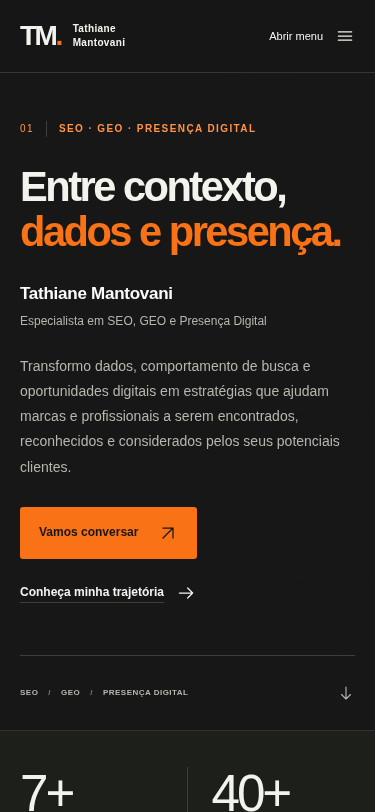
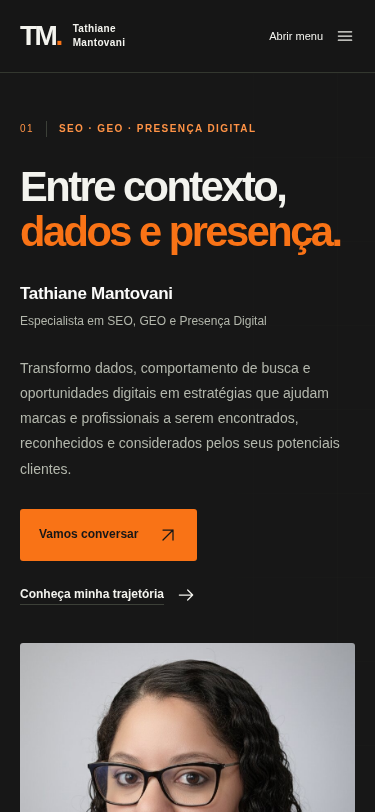
Inclui originais e aprova depoimentos para publicação

diff --git a/src/data/site.ts b/src/data/site.ts
@@ -203,18 +203,18 @@ export const site: SiteContent = {
     whatsappFloatingLabel: 'Conversar com Tathiane pelo WhatsApp',
   },
   images: {
-    // Reservas de layout: conferir dimensões e composição quando os originais chegarem.
+    // Dimensões dos arquivos originais enviados pela titular.
     portrait: {
       src: '/images/foto-tathiane.jpg',
       alt: 'Retrato profissional de Tathiane Mantovani',
-      width: 720,
-      height: 900,
+      width: 867,
+      height: 1024,
     },
     illustration: {
       src: '/images/ilustracao-livro-pena.png',
       alt: '',
-      width: 640,
-      height: 640,
+      width: 981,
+      height: 756,
     },
   },
   hero: {
@@ -560,55 +560,55 @@ export const site: SiteContent = {
       title: 'Cada projeto também é uma troca.',
       description: 'Clareza, compromisso e colaboração orientam minha forma de trabalhar com pessoas e negócios.',
     },
-    // Nenhuma recomendação é pública até a titular revisar texto e autorizar o uso do nome.
+    // Os oito trechos e nomes foram revisados pela titular, que autorizou sua exibição pública.
     items: [
       {
         name: 'Rafaela Campos',
         relationship: 'Trabalhou na mesma equipe',
         quote: 'comprometida, de poucas palavras e muita ação com qualidade',
-        status: 'pendenteRevisao',
+        status: 'aprovado',
       },
       {
         name: 'Calila Meira',
         relationship: 'Foi mentora da Tathiane',
         quote: 'Ótima profissional e aluna! Muito correta em tudo o que faz e proativa.',
-        status: 'pendenteRevisao',
+        status: 'aprovado',
       },
       {
         name: 'Aline Saes',
         relationship: 'Trabalhou na mesma equipe',
         quote: 'A Tathiane é uma redatora incrível, sabe receber bem todos os feedbacks e adaptar os conteúdos quando necessário.',
-        status: 'pendenteRevisao',
+        status: 'aprovado',
       },
       {
         name: 'Duda Razera',
         relationship: 'Foi cliente da Tathiane',
         quote: 'Os conteúdos da Tathi sempre tem muita qualidade e ela é fiel aos prazos e orientações enviadas.',
-        status: 'pendenteRevisao',
+        status: 'aprovado',
       },
       {
         name: 'Larissa Oliveira',
         relationship: 'Foi cliente da Tathiane',
         quote: 'Tathiane sempre entrega um trabalho de redação impecável e de qualidade. Recomendo demais!',
-        status: 'pendenteRevisao',
+        status: 'aprovado',
       },
       {
         name: 'Karine',
         relationship: 'Trabalhou na mesma equipe',
         quote: 'Como analista de SEO, é sempre muito assertiva nos briefings e direcionamentos de conteúdo',
-        status: 'pendenteRevisao',
+        status: 'aprovado',
       },
       {
         name: 'Gabriela Zendron da Cunha',
         relationship: 'Trabalhou na mesma equipe',
         quote: 'sempre se mostrou uma profissional extremamente proativa, analítica e estratégica',
-        status: 'pendenteRevisao',
+        status: 'aprovado',
       },
       {
         name: 'Francielle Carvalho',
         relationship: 'Trabalharam em equipes diferentes',
         quote: 'uma capacidade analítica impressionante, raciocínio lógico apurado, olhar crítico e muita agilidade na resolução de problemas',
-        status: 'pendenteRevisao',
+        status: 'aprovado',
       },
     ],
   },
@@ -645,12 +645,9 @@ export const site: SiteContent = {
   },
   editorial: {
     pendingReview: [
-      'Adicionar a fotografia profissional e a ilustração originais; conferir dimensões e enquadramento antes da publicação.',
       'Confirmar se o indicador de livros técnicos publicados deve ser 9+ ou 9.',
       'Validar o indicador 12+ de especializações acadêmicas e sua composição entre cursos concluídos e em andamento.',
       'Revisar nomes, instituições, períodos e status dos cursos selecionados antes da publicação.',
-      'Revisar a exatidão dos oito trechos de recomendações e confirmar autorização editorial para uso dos nomes; somente então alterar o status para aprovado.',
-      'Confirmar o sobrenome de Karine se for necessário; manter apenas o nome fornecido até a confirmação.',
     ],
   },
 };

diff --git a/src/styles/global.css b/src/styles/global.css
@@ -190,8 +190,11 @@ main:focus { outline: none; }
 .process-flow .section-note { margin-top: 34px; max-width: 90ch; }
 .testimonial-grid { grid-template-columns: repeat(2, minmax(0, 1fr)); }
 .testimonial-card blockquote { margin: 0 0 25px; font-size: 18px; line-height: 1.6; }
-.testimonial-attribution { font-size: 13px; font-weight: 600; line-height: 1.6; }
-.testimonial-attribution p { font-size: 12px; }
+.testimonial-card { display: flex; flex-direction: column; }
+.testimonial-card blockquote p { color: var(--text); font-size: 18px; line-height: 1.7; font-weight: 450; }
+.testimonial-attribution { display: flex; flex-direction: column; gap: 5px; margin-top: auto; font-size: 13px; font-weight: 600; line-height: 1.6; }
+.testimonial-attribution span { color: var(--muted); font-size: 12px; font-weight: 400; }
+.testimonial-attribution small { color: var(--muted); font-size: 10px; font-weight: 400; padding-top: 14px; margin-top: 9px; border-top: 1px solid var(--line); }
 
 .contact-section { padding-block: 116px; background: #20221d; border-bottom: 1px solid #393d33; }
 .contact-grid { display: grid; grid-template-columns: 1.35fr .65fr; gap: 100px; align-items: end; }

diff --git a/README.md b/README.md
@@ -24,13 +24,13 @@ npm run preview -- --host 127.0.0.1 --port 4322
 
 ## Edição do conteúdo
 
-Edite `src/data/site.ts` para atualizar textos, links, números, formação, serviços, segmentos, cases anônimos e depoimentos sem alterar os componentes. Preserve os status de formação e de revisão editorial. Os depoimentos pendentes ficam nos dados e são omitidos da página pública até confirmação.
+Edite `src/data/site.ts` para atualizar textos, links, números, formação, serviços, segmentos, cases anônimos e depoimentos sem alterar os componentes. Preserve os status de formação e de revisão editorial. Novos depoimentos ainda não confirmados devem ficar com `status: 'pendenteRevisao'` para serem omitidos da página.
 
-A titular escolheu manter os oito depoimentos pendentes. Por isso, a página exibe dez seções no momento; a seção de depoimentos ocupa sua posição prevista quando houver registros com `status: 'aprovado'`. Altere esse status somente após a revisão editorial.
+A titular conferiu e aprovou os oito depoimentos fornecidos. Todos estão com `status: 'aprovado'` e visíveis; a página reúne as onze seções previstas. Alterar esse status inclui ou oculta o registro na página gerada e na prévia local, sem iniciar uma publicação por si só.
 
-As imagens devem ser adicionadas em `public/images/` com os nomes exatos descritos no [guia de imagens](public/images/README.md). Confira também as dimensões e o recorte declarados nos dados. A fotografia e a ilustração originais estão ausentes e não foram substituídas; o hero depende desses arquivos para sua finalização.
+As imagens originais fornecidas pela titular estão incluídas em `public/images/`, conforme o [guia de imagens](public/images/README.md): fotografia de 867 × 1024 px e ilustração de 981 × 756 px. Os caminhos, textos alternativos e dimensões ficam em `src/data/site.ts`.
 
-Após adicionar as imagens, confira `width` e `height` nos dados, revise o enquadramento e execute um novo build. Elas são incluídas somente quando os arquivos existem.
+Ao substituir alguma imagem, atualize `width` e `height` nos dados, revise o enquadramento e execute um novo build. Preserve a composição da fotografia e a transparência da ilustração. As imagens são incluídas somente quando os arquivos existem.
 
 ## Validação executada
 
@@ -38,25 +38,24 @@ Após adicionar as imagens, confira `width` e `height` nos dados, revise o enqua
 - Desenvolvimento e saída estática responderam HTTP 200 com o conteúdo e os links de contato esperados.
 - Chromium em 320, 375, 768, 1024, 1440 e 1920 px: sem rolagem horizontal, erros de JavaScript, âncoras ausentes ou imagens quebradas.
 - Menu por teclado, retorno do foco com Escape e movimento reduzido verificados; auditoria axe sem violações nos critérios WCAG AA selecionados. O contraste do hero foi conferido manualmente por causa da grade decorativa.
-- Os oito depoimentos pendentes foram confirmados ausentes no HTML público.
-- O bloqueio por imagens do workflow foi testado localmente; o workflow ainda não executou no GitHub.
+- Os oito depoimentos aprovados pela titular estão configurados para aparecer na seção de depoimentos.
+- A presença das duas imagens originais atende à verificação obrigatória de assets do workflow. A publicação pelo workflow ainda não foi confirmada no GitHub.
 
-## Pendências editoriais
+## Revisões editoriais opcionais
 
-- Confirmar o indicador de livros: `9+` ou `9`.
-- Confirmar como apresentar `12+` especializações sem sugerir que todas foram concluídas.
-- Validar a seleção de cursos e instituições; Jornalismo e as especializações indicadas como em andamento devem continuar com esse status explícito.
-- Revisar com a titular os nomes, vínculos e trechos dos depoimentos e confirmar seu uso público. Manter o texto fiel ao trecho fornecido, sem completar sobrenomes ou conteúdo oculto e sem publicar screenshots.
-- Adicionar a fotografia e a ilustração originais e conferir o hero nos tamanhos de tela previstos.
+- Se necessário, ajustar o indicador de livros entre `9+` e `9`.
+- Refinar a apresentação de `12+` especializações; o rótulo atual distingue cursos concluídos e em andamento.
+- Atualizar a seleção de cursos e instituições conforme desejado. Jornalismo e as especializações indicadas como em andamento devem continuar com esse status até sua conclusão.
+
+Essas revisões não bloqueiam a publicação. Os oito depoimentos já foram aprovados; seus trechos permanecem fiéis ao conteúdo fornecido, sem completar sobrenomes ou conteúdo oculto e sem screenshots.
 
 ## Publicar no GitHub Pages
 
-Nenhuma configuração remota, commit, push ou publicação é realizada pelo desenvolvimento local.
+O branch `main` está preparado para o fluxo de publicação. A publicação ainda não foi confirmada; o GitHub Pages precisa estar configurado para usar GitHub Actions.
 
-1. Revise o conteúdo e adicione as duas imagens originais. O workflow falha antes do build e do deploy se algum desses arquivos estiver ausente ou vazio.
-2. Salve e envie os arquivos revisados para o repositório `tathianemantovani/tathianemantovani.github.io`. O branch remoto `main` ainda precisa ser criado; siga o fluxo de revisão autorizado, preservando o trabalho existente, sem reset ou push forçado.
-3. No GitHub, abra **Settings → Pages → Build and deployment → Source** e selecione **GitHub Actions**. Essa configuração é manual; o workflow não habilita Pages automaticamente.
-4. Um push em `main` inicia `.github/workflows/deploy.yml`. Também é possível usar **Actions → Publicar no GitHub Pages → Run workflow**, selecionando `main`.
-5. Confira o resultado dos jobs e a URL mostrada pelo deployment. Só então considere a publicação confirmada.
+1. No repositório `tathianemantovani/tathianemantovani.github.io`, abra **Settings → General → Default branch** e selecione `main` como branch padrão.
+2. Abra **Settings → Pages → Build and deployment → Source** e selecione **GitHub Actions**. Essa configuração é manual; o workflow não habilita Pages automaticamente.
+3. Abra **Actions → Publicar no GitHub Pages → Run workflow**, selecione o branch `main` e execute. Esse comando pode repetir a publicação caso um primeiro push tenha ocorrido antes da configuração de Pages.
+4. Aguarde os jobs **Verificar e construir** e **Publicar** ficarem verdes. Abra a URL mostrada pelo deployment: <https://tathianemantovani.github.io/>. Só então considere a publicação confirmada.
 
-O workflow usa actions oficiais fixadas por SHA, Node.js 24, `npm ci`, verificação de tipos e build estático. O job de build só lê o código; o job de deploy recebe `pages: write` e `id-token: write`. Os dados editoriais pendentes não bloqueiam a publicação das demais seções enquanto permanecerem omitidos. O Astro deve usar `site: 'https://tathianemantovani.github.io'`, sem `base` de subdiretório.
+Novos pushes em `main` iniciam `.github/workflows/deploy.yml` automaticamente. O workflow usa actions oficiais fixadas por SHA, Node.js 24, `npm ci`, verificação de tipos e build estático. O job de build só lê o código; o job de deploy recebe `pages: write` e `id-token: write`. As duas imagens originais já estão incluídas; o workflow verifica que continuam presentes e não vazias. O Astro usa `site: 'https://tathianemantovani.github.io'`, sem `base` de subdiretório.

diff --git a/docs/revisao/README.md b/docs/revisao/README.md
@@ -1,17 +1,18 @@
 # Revisão do site
 
-Esta branch disponibiliza o projeto para revisão e download. Um push em `revisao-site` não aciona o workflow de publicação, configurado para `main`.
+Esta pasta disponibiliza capturas e instruções para revisão. O projeto está preparado em `main` para publicação; um push em `revisao-site` não aciona o workflow, configurado para `main`.
 
 ## Capturas
 
 - [Desktop](desktop.png)
 - [Celular](mobile.png)
+- [Depoimentos aprovados](depoimentos.png)
 
-As capturas mostram a versão atual sem a fotografia e a ilustração originais. Os depoimentos permanecem pendentes e não aparecem na página.
+As capturas mostram a versão com a fotografia e a ilustração originais fornecidas pela titular. Os oito depoimentos foram conferidos e aprovados pela titular, estão visíveis e completam as onze seções previstas.
 
 ## Baixar e visualizar
 
-Na página desta branch no GitHub, use **Code → Download ZIP**. Extraia o arquivo e abra um terminal na pasta que contém `package.json`. Com Node.js 24 LTS instalado, execute:
+Na página do repositório no GitHub, selecione `main` e use **Code → Download ZIP**. Extraia o arquivo e abra um terminal na pasta que contém `package.json`. Com Node.js 24 LTS instalado, execute:
 
 ```sh
 npm ci
@@ -22,8 +23,17 @@ Abra no navegador do mesmo computador o endereço exibido pelo terminal. Esses c
 
 ## Editar e concluir
 
-O conteúdo está em `src/data/site.ts`. A frase visível do início vem de `hero.headingLines`. Os depoimentos ficam em `testimonials.items`; `pendenteRevisao` oculta e `aprovado` inclui o registro na página após a confirmação editorial.
+O conteúdo está em `src/data/site.ts`. A frase visível do início vem de `hero.headingLines`. Os depoimentos ficam em `testimonials.items`; `pendenteRevisao` oculta e `aprovado` inclui o registro na página. Os oito registros atuais já foram aprovados. Alterar o status atualiza a prévia e os próximos builds, sem iniciar um deploy por si só.
 
-Inclua os originais em `public/images/foto-tathiane.jpg` e `public/images/ilustracao-livro-pena.png`, confira suas dimensões nos dados e revise o enquadramento. Também permanecem pendentes a revisão dos indicadores 9+/12+, a seleção da formação e a autorização dos depoimentos.
+Os originais já estão incluídos em `public/images/foto-tathiane.jpg` (867 × 1024 px) e `public/images/ilustracao-livro-pena.png` (981 × 756 px). Ao substituir as imagens, atualize suas dimensões nos dados e revise o enquadramento. Como revisão opcional, é possível ajustar `9+` ou `9` livros, refinar a qualificação de `12+` especializações e atualizar a seleção da formação. Mantenha explícitos os cursos em andamento.
+
+## Publicar para visualizar online
+
+A publicação ainda não foi confirmada. O branch `main` está preparado e os originais atendem à verificação de imagens do workflow. No GitHub:
+
+1. Em **Settings → General → Default branch**, selecione `main`.
+2. Em **Settings → Pages → Build and deployment → Source**, selecione **GitHub Actions**.
+3. Em **Actions → Publicar no GitHub Pages → Run workflow**, selecione `main` e execute.
+4. Aguarde os jobs ficarem verdes e abra a URL mostrada pelo deployment, esperada em <https://tathianemantovani.github.io/>.
 
 Veja o [README principal](../../README.md) para todas as instruções de conteúdo, validação e publicação.

diff --git a/public/images/README.md b/public/images/README.md
@@ -1,10 +1,10 @@
 # Imagens originais
 
-Adicione aqui os dois arquivos fornecidos pela titular:
+Esta pasta contém os dois arquivos originais fornecidos pela titular:
 
-- `foto-tathiane.jpg`: fotografia profissional de Tathiane Mantovani.
-- `ilustracao-livro-pena.png`: ilustração original de livro com pena, preservando a transparência.
+- `foto-tathiane.jpg`: fotografia profissional de Tathiane Mantovani, 867 × 1024 px.
+- `ilustracao-livro-pena.png`: ilustração original de livro com pena, 981 × 756 px, com transparência.
 
-Esses arquivos ainda não foram fornecidos. A implementação permite revisar o layout sem fabricar uma fotografia ou desenho substituto. O hero só poderá ser finalizado após a inclusão dos originais; o workflow bloqueia a publicação enquanto qualquer arquivo estiver ausente ou vazio.
+O hero usa a fotografia e a seção Sobre usa a ilustração como elemento editorial decorativo. Os originais foram recebidos e estão incluídos na versão preparada em `main`. O workflow verifica sua presença e bloqueia a publicação se algum arquivo estiver ausente ou vazio; os dois arquivos atuais atendem a essa condição.
 
-Prefira imagens otimizadas, com tamanho adequado à exibição. Confira a composição da fotografia, as dimensões declaradas no conteúdo e o contraste da ilustração antes de publicar. Não adicione capturas de recomendações, currículo ou outros documentos privados nesta pasta.
+Ao substituir os arquivos, preserve a composição da fotografia e a transparência da ilustração. Atualize as dimensões em `src/data/site.ts`, confira o enquadramento e o contraste e execute um novo build. Não adicione capturas de recomendações, currículo ou outros documentos privados nesta pasta.
